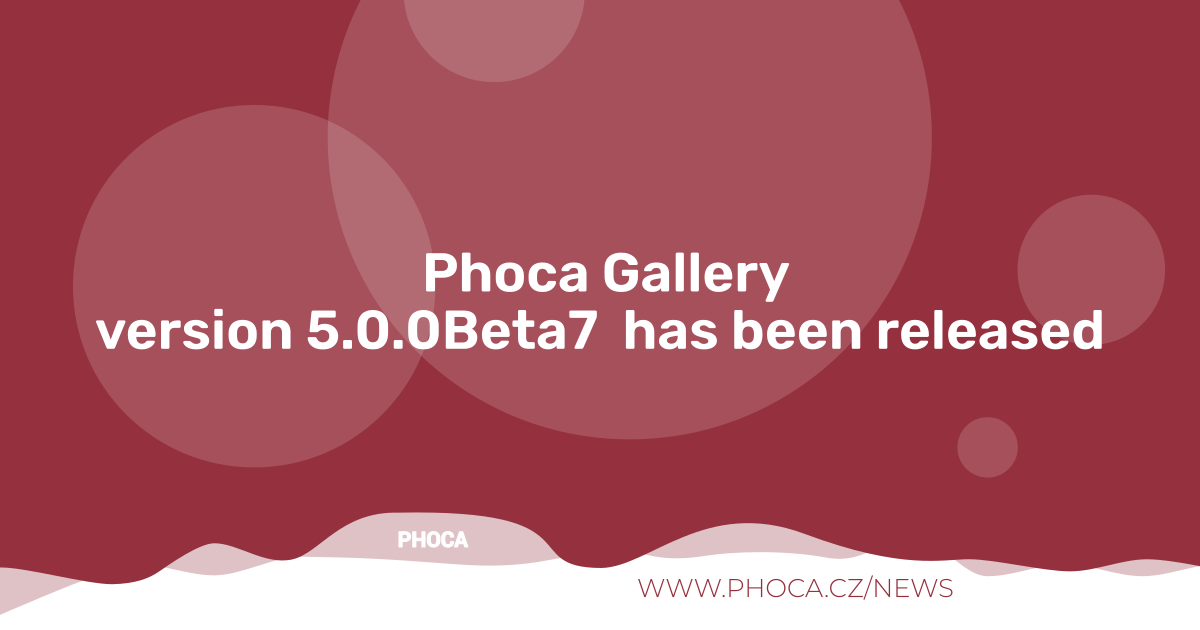
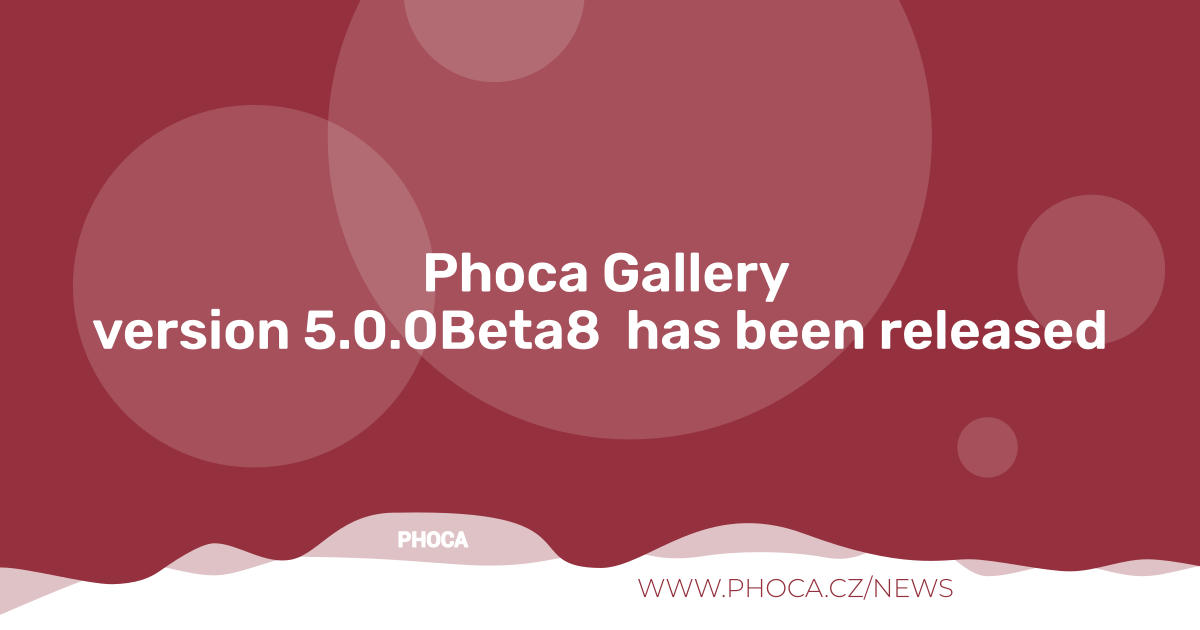
5.0.0Beta8

Changed region(s): [[0.0617, 0.4825, 0.925, 0.573]]

diff --git a/admin/views/phocagallerycs/view.html.php b/admin/views/phocagallerycs/view.html.php
@@ -144,33 +144,48 @@ class PhocaGalleryCpViewPhocaGalleryCs extends HtmlView
 		if ($canDo->get('core.edit')) {
 			ToolbarHelper::editList('phocagalleryc.edit','JToolbar_EDIT');
 		}
+
+		$dropdown = $bar->dropdownButton('status-group')->text('JTOOLBAR_CHANGE_STATUS')->toggleSplit(false)->icon('icon-ellipsis-h')->buttonClass('btn btn-action')->listCheck(true);
+		$childBar = $dropdown->getChildToolbar();
+
+
 		if ($canDo->get('core.edit.state')) {
 
-			ToolbarHelper::divider();
+		/*	ToolbarHelper::divider();
 			ToolbarHelper::custom('phocagallerycs.publish', 'publish.png', 'publish_f2.png','JToolbar_PUBLISH', true);
 			ToolbarHelper::custom('phocagallerycs.unpublish', 'unpublish.png', 'unpublish_f2.png', 'JToolbar_UNPUBLISH', true);
 			ToolbarHelper::custom( 'phocagallerycs.approve', 'approve.png', '', 'COM_PHOCAGALLERY_APPROVE' , true);
 			ToolbarHelper::custom( 'phocagallerycs.disapprove', 'disapprove.png', '',  'COM_PHOCAGALLERY_NOT_APPROVE' , true);
-			ToolbarHelper::custom('phocagallerycs.cooliris', 'cooliris.png', '',  'COM_PHOCAGALLERY_COOLIRIS' , true);
+			//ToolbarHelper::custom('phocagallerycs.cooliris', 'cooliris.png', '',  'COM_PHOCAGALLERY_COOLIRIS' , true);*/
+
+			$childBar->publish('phocagallerycs.publish')->listCheck(true);
+			$childBar->unpublish('phocagallerycs.unpublish')->listCheck(true);
+			$childBar->standardButton('approve')->text('COM_PHOCAGALLERY_APPROVE')->task('phocagallerycs.approve')->listCheck(true);
+			$childBar->standardButton('disapprove')->text('COM_PHOCAGALLERY_NOT_APPROVE')->task('phocagallerycs.disapprove')->listCheck(true);
 		}
 
 		if ($canDo->get('core.delete')) {
-			ToolbarHelper::deleteList( Text::_( 'COM_PHOCAGALLERY_WARNING_DELETE_ITEMS' ), 'phocagallerycs.delete', 'COM_PHOCAGALLERY_DELETE');
+			//ToolbarHelper::deleteList( Text::_( 'COM_PHOCAGALLERY_WARNING_DELETE_ITEMS' ), 'phocagallerycs.delete', 'COM_PHOCAGALLERY_DELETE');
+			$childBar->delete('phocagallerycs.delete')->text('COM_PHOCAGALLERY_DELETE')->message('COM_PHOCAGALLERY_WARNING_DELETE_ITEMS')->icon('icon-trash')->listCheck(true);
 		}
 		// Add a batch button
 		if ($user->authorise('core.edit'))
 		{
 			//HTMLHelper::_('bootstrap.renderModal', 'collapseModal');
-			$title = Text::_('JToolbar_BATCH');
+			/*$title = Text::_('JToolbar_BATCH');
 
 
 			$dhtml = '<joomla-toolbar-button id="toolbar-batch" list-selection>';
-			$dhtml .= "<button data-bs-toggle=\"modal\" data-bs-target=\"#collapseModal\" class=\"btn btn-small\">
+			$dhtml .= "<button data-bs-toggle=\"modal\" data-bs-target=\"#collapseModal\" class=\"btn btn-primary btn-small\">
 						<i class=\"icon-checkbox-partial\" title=\"$title\"></i>
 						$title</button>";
 			$dhtml .= '</joomla-toolbar-button>';
 
-			$bar->appendButton('Custom', $dhtml, 'batch');
+			$bar->appendButton('Custom', $dhtml, 'batch');*/
+
+			HTMLHelper::_('bootstrap.renderModal', 'collapseModal');
+			$childBar->popupButton('batch')->text('JTOOLBAR_BATCH')->selector('collapseModal')->listCheck(true);
+
 		}
 		ToolbarHelper::divider();
 		ToolbarHelper::help( 'screen.phocagallery', true );

diff --git a/admin/views/phocagalleryusers/view.html.php b/admin/views/phocagalleryusers/view.html.php
@@ -112,7 +112,7 @@ class PhocaGalleryCpViewPhocaGalleryUsers extends HtmlView
 			$bar = Toolbar::getInstance('toolbar');
 		/*$bar->appendButton( 'Custom', '<a href="#" onclick="javascript:if(confirm(\''.addslashes(JText::_('COM_PHOCAGALLERY_WARNING_AUTHORIZE_ALL')).'\')){Joomla.submitbutton(\'phocagalleryusers.approveall\');}" class="toolbar"><span class="icon-32-authorizeall" title="'.JText::_('COM_PHOCAGALLERY_APPROVE_ALL').'" type="Custom"></span>'.JText::_('COM_PHOCAGALLERY_APPROVE_ALL').'</a>');*/
 
-			$dhtml = '<button class="btn btn-small" onclick="javascript:if(confirm(\''.addslashes(Text::_('COM_PHOCAGALLERY_WARNING_AUTHORIZE_ALL')).'\')){Joomla.submitbutton(\'phocagalleryusers.approveall\');}" ><i class="icon-authorizeall" title="'.Text::_('COM_PHOCAGALLERY_APPROVE_ALL').'"></i> '.Text::_('COM_PHOCAGALLERY_APPROVE_ALL').'</button>';
+			$dhtml = '<button class="btn btn-primary btn-small" onclick="javascript:if(confirm(\''.addslashes(Text::_('COM_PHOCAGALLERY_WARNING_AUTHORIZE_ALL')).'\')){Joomla.submitbutton(\'phocagalleryusers.approveall\');}" ><i class="icon-authorizeall" title="'.Text::_('COM_PHOCAGALLERY_APPROVE_ALL').'"></i> '.Text::_('COM_PHOCAGALLERY_APPROVE_ALL').'</button>';
 			$bar->appendButton('Custom', $dhtml);
 
 

diff --git a/admin/views/phocagallerycp/view.html.php b/admin/views/phocagallerycp/view.html.php
@@ -27,7 +27,7 @@ class PhocaGalleryCpViewPhocaGallerycp extends HtmlView
 
 		$i = ' icon-';
 		$d = 'duotone ';
-		
+
 
 		$this->views= array(
 		'imgs'		=> array($this->t['l'] . '_IMAGES', $d.$i.'pictures', '#dd5500'),
@@ -63,7 +63,7 @@ class PhocaGalleryCpViewPhocaGallerycp extends HtmlView
 
 		// This button is unnecessary but it is displayed because Joomla! design bug
 		$bar = Toolbar::getInstance( 'toolbar' );
-		$dhtml = '<a href="index.php?option=com_phocagallery" class="btn btn-small"><i class="icon-home-2" title="'.Text::_('COM_PHOCAGALLERY_CONTROL_PANEL').'"></i> '.Text::_('COM_PHOCAGALLERY_CONTROL_PANEL').'</a>';
+		$dhtml = '<a href="index.php?option=com_phocagallery" class="btn btn-primary btn-small"><i class="icon-home-2" title="'.Text::_('COM_PHOCAGALLERY_CONTROL_PANEL').'"></i> '.Text::_('COM_PHOCAGALLERY_CONTROL_PANEL').'</a>';
 		$bar->appendButton('Custom', $dhtml);
 
 		if ($canDo->get('core.admin')) {

diff --git a/admin/views/phocagalleryin/view.html.php b/admin/views/phocagalleryin/view.html.php
@@ -141,7 +141,7 @@ class PhocaGalleryCpViewPhocaGalleryIn extends HtmlView
 
 		// This button is unnecessary but it is displayed because Joomla! design bug
 		$bar = Toolbar::getInstance( 'toolbar' );
-		$dhtml = '<a href="index.php?option=com_phocagallery" class="btn btn-small"><i class="icon-home-2" title="'.Text::_('COM_PHOCAGALLERY_CONTROL_PANEL').'"></i> '.Text::_('COM_PHOCAGALLERY_CONTROL_PANEL').'</a>';
+		$dhtml = '<a href="index.php?option=com_phocagallery" class="btn btn-primary btn-small"><i class="icon-home-2" title="'.Text::_('COM_PHOCAGALLERY_CONTROL_PANEL').'"></i> '.Text::_('COM_PHOCAGALLERY_CONTROL_PANEL').'</a>';
 		$bar->appendButton('Custom', $dhtml);
 
 		if ($canDo->get('core.admin')) {

diff --git a/README.MD b/README.MD
@@ -150,7 +150,7 @@ Phoca Gallery is an efficient image gallery extension for Joomla! CMS.
 
 ## Version (Joomla! 5.x)
 
-5.0.0Beta7
+5.0.0Beta8
 
 
 
